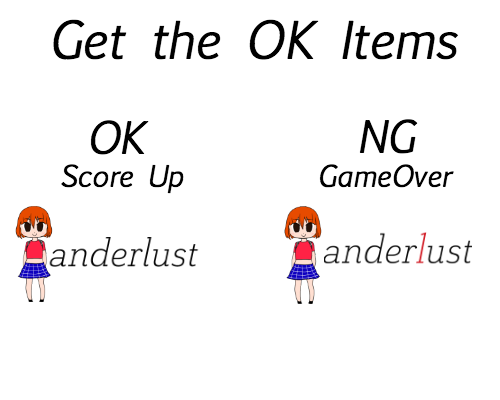
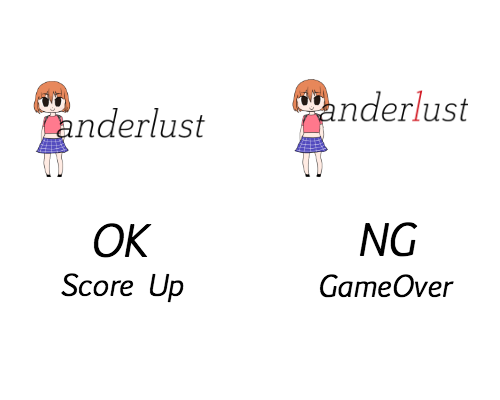
explain

diff --git a/game_assets/js/GameScene.js b/game_assets/js/GameScene.js
@@ -44,6 +44,7 @@ class GameScene{
 
         this.count = 0;
         this.buttonAlpha = 0;
+        this.explainAlpha = 0;
 
         this.touchHandler = this.touchstartEvent.bind(this);
         this.mousedownHandler = this.mousedownEvent.bind(this);
@@ -55,8 +56,11 @@ class GameScene{
         changeScene("explain");
         this.explain.x = getCenterPosition(WINDOW_WIDTH, this.explain.width);
         this.explain.y = getCenterPosition(WINDOW_HEIGHT, this.explain.height);
+
         this.gameStartButton.x = getCenterPosition(WINDOW_WIDTH, this.gameStartButton.width);
-        this.gameStartButton.y = getCenterPosition(WINDOW_HEIGHT, this.gameStartButton.height) + 200;;
+        this.gameStartButton.y = this.explain.y + this.explain.height -  this.gameStartButton.height - 5;
+
+        this.explain.addPos(0, -50);
     }
 
     show(playerIndex) {
@@ -68,22 +72,15 @@ class GameScene{
 
         if (scene == "explain") {
             this.showExplain();
-        } else {
-            this.gameStart();
         }
-
-        // ゲームスタート
-        this.startTime = getTime();
-        this.lastSpawnTime = this.startTime;
+        this.resetTime();
         this.renderFrame();
-
     }
 
-    gameStart() {
+    resetTime() {
         // ゲームスタート
         this.startTime = getTime();
         this.lastSpawnTime = this.startTime;
-        this.renderFrame();
     }
 
     setUpLayout () {
@@ -108,16 +105,25 @@ class GameScene{
     touchstartEvent(event) {
         event.preventDefault();
         console.log("prevent!");
-        this.clickEvent(event.touches[0].clientY);
+        this.clickEvent(event.touches[0].clientX, event.touches[0].clientY);
     }
 
     mousedownEvent(event) {
         event.preventDefault();
         console.log("prevent!");
-        this.clickEvent(event.clientY);
+        this.clickEvent(event.clientX, event.clientY);
     }
 
-    clickEvent(y) {
+    clickEvent(x, y) {
+
+        if (scene == "explain") {
+            if (this.gameStartButton.isContainedArea(x, y)){
+                changeScene("game");
+                this.resetTime();
+            }
+            return;
+        }
+
         if (scene != "game") {
             return;
         }
@@ -159,11 +165,6 @@ class GameScene{
             return;
         }
 
-        if (scene == "explain") {
-            this.draw();
-            return;
-        }
-
         this.count++;
 
         //ループを開始
@@ -174,6 +175,11 @@ class GameScene{
 
         //canvas をクリア
         this.ctx.clearRect(0, 0, this.canvas.width, this.canvas.height);
+
+        if (scene == "explain") {
+            this.draw();
+            return;
+        }
 
         // 障害物の移動
         for (var i = this.correctWords.length - 1; i >= 0; i--) {
@@ -266,8 +272,17 @@ class GameScene{
         }
 
         if (scene == "explain") {
+            if (this.explainAlpha < 1.0) {
+                this.explainAlpha += 0.05;
+                this.explain.addPos(0, 2.5);
+            }
+            ctx.globalAlpha = this.explainAlpha;
             this.explain.draw(ctx);
-            this.gameStartButton.draw(ctx);
+            ctx.globalAlpha = 1.0;
+
+            if (this.explainAlpha >= 1.0) {
+                this.gameStartButton.draw(ctx);
+            }
         }
     }
 
